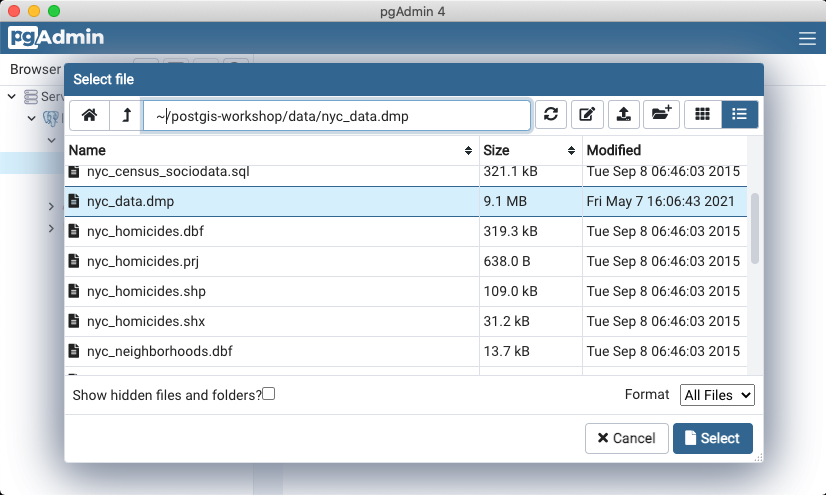
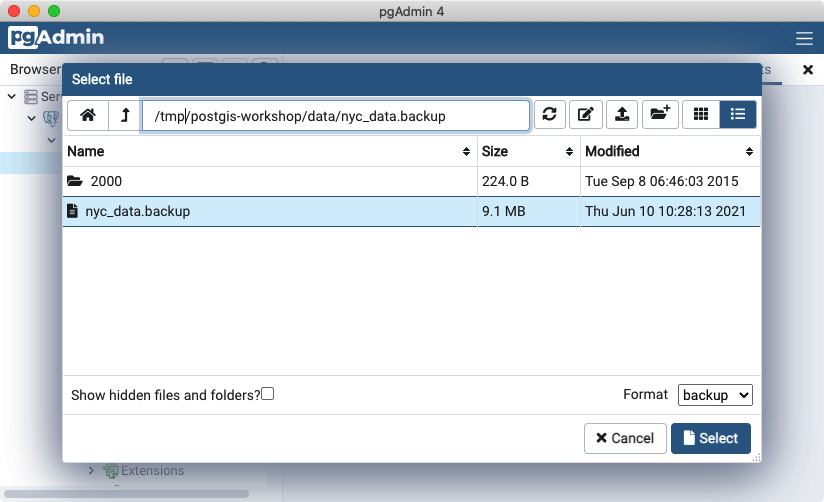
Updates from test run

diff --git a/postgis-intro/sources/en/loading_data.rst b/postgis-intro/sources/en/loading_data.rst
@@ -16,7 +16,7 @@ Loading the Backup File
    .. image:: ./screenshots/data_loading_1.png
      :class: inline, border
 
-#. Browse to the location of your workshop data data directory, and select the :file:`nyc_data.dmp` file.
+#. Browse to the location of your workshop data data directory, and select the :file:`nyc_data.backup` file.
 
    .. image:: ./screenshots/data_loading_2.png
      :class: inline, border
